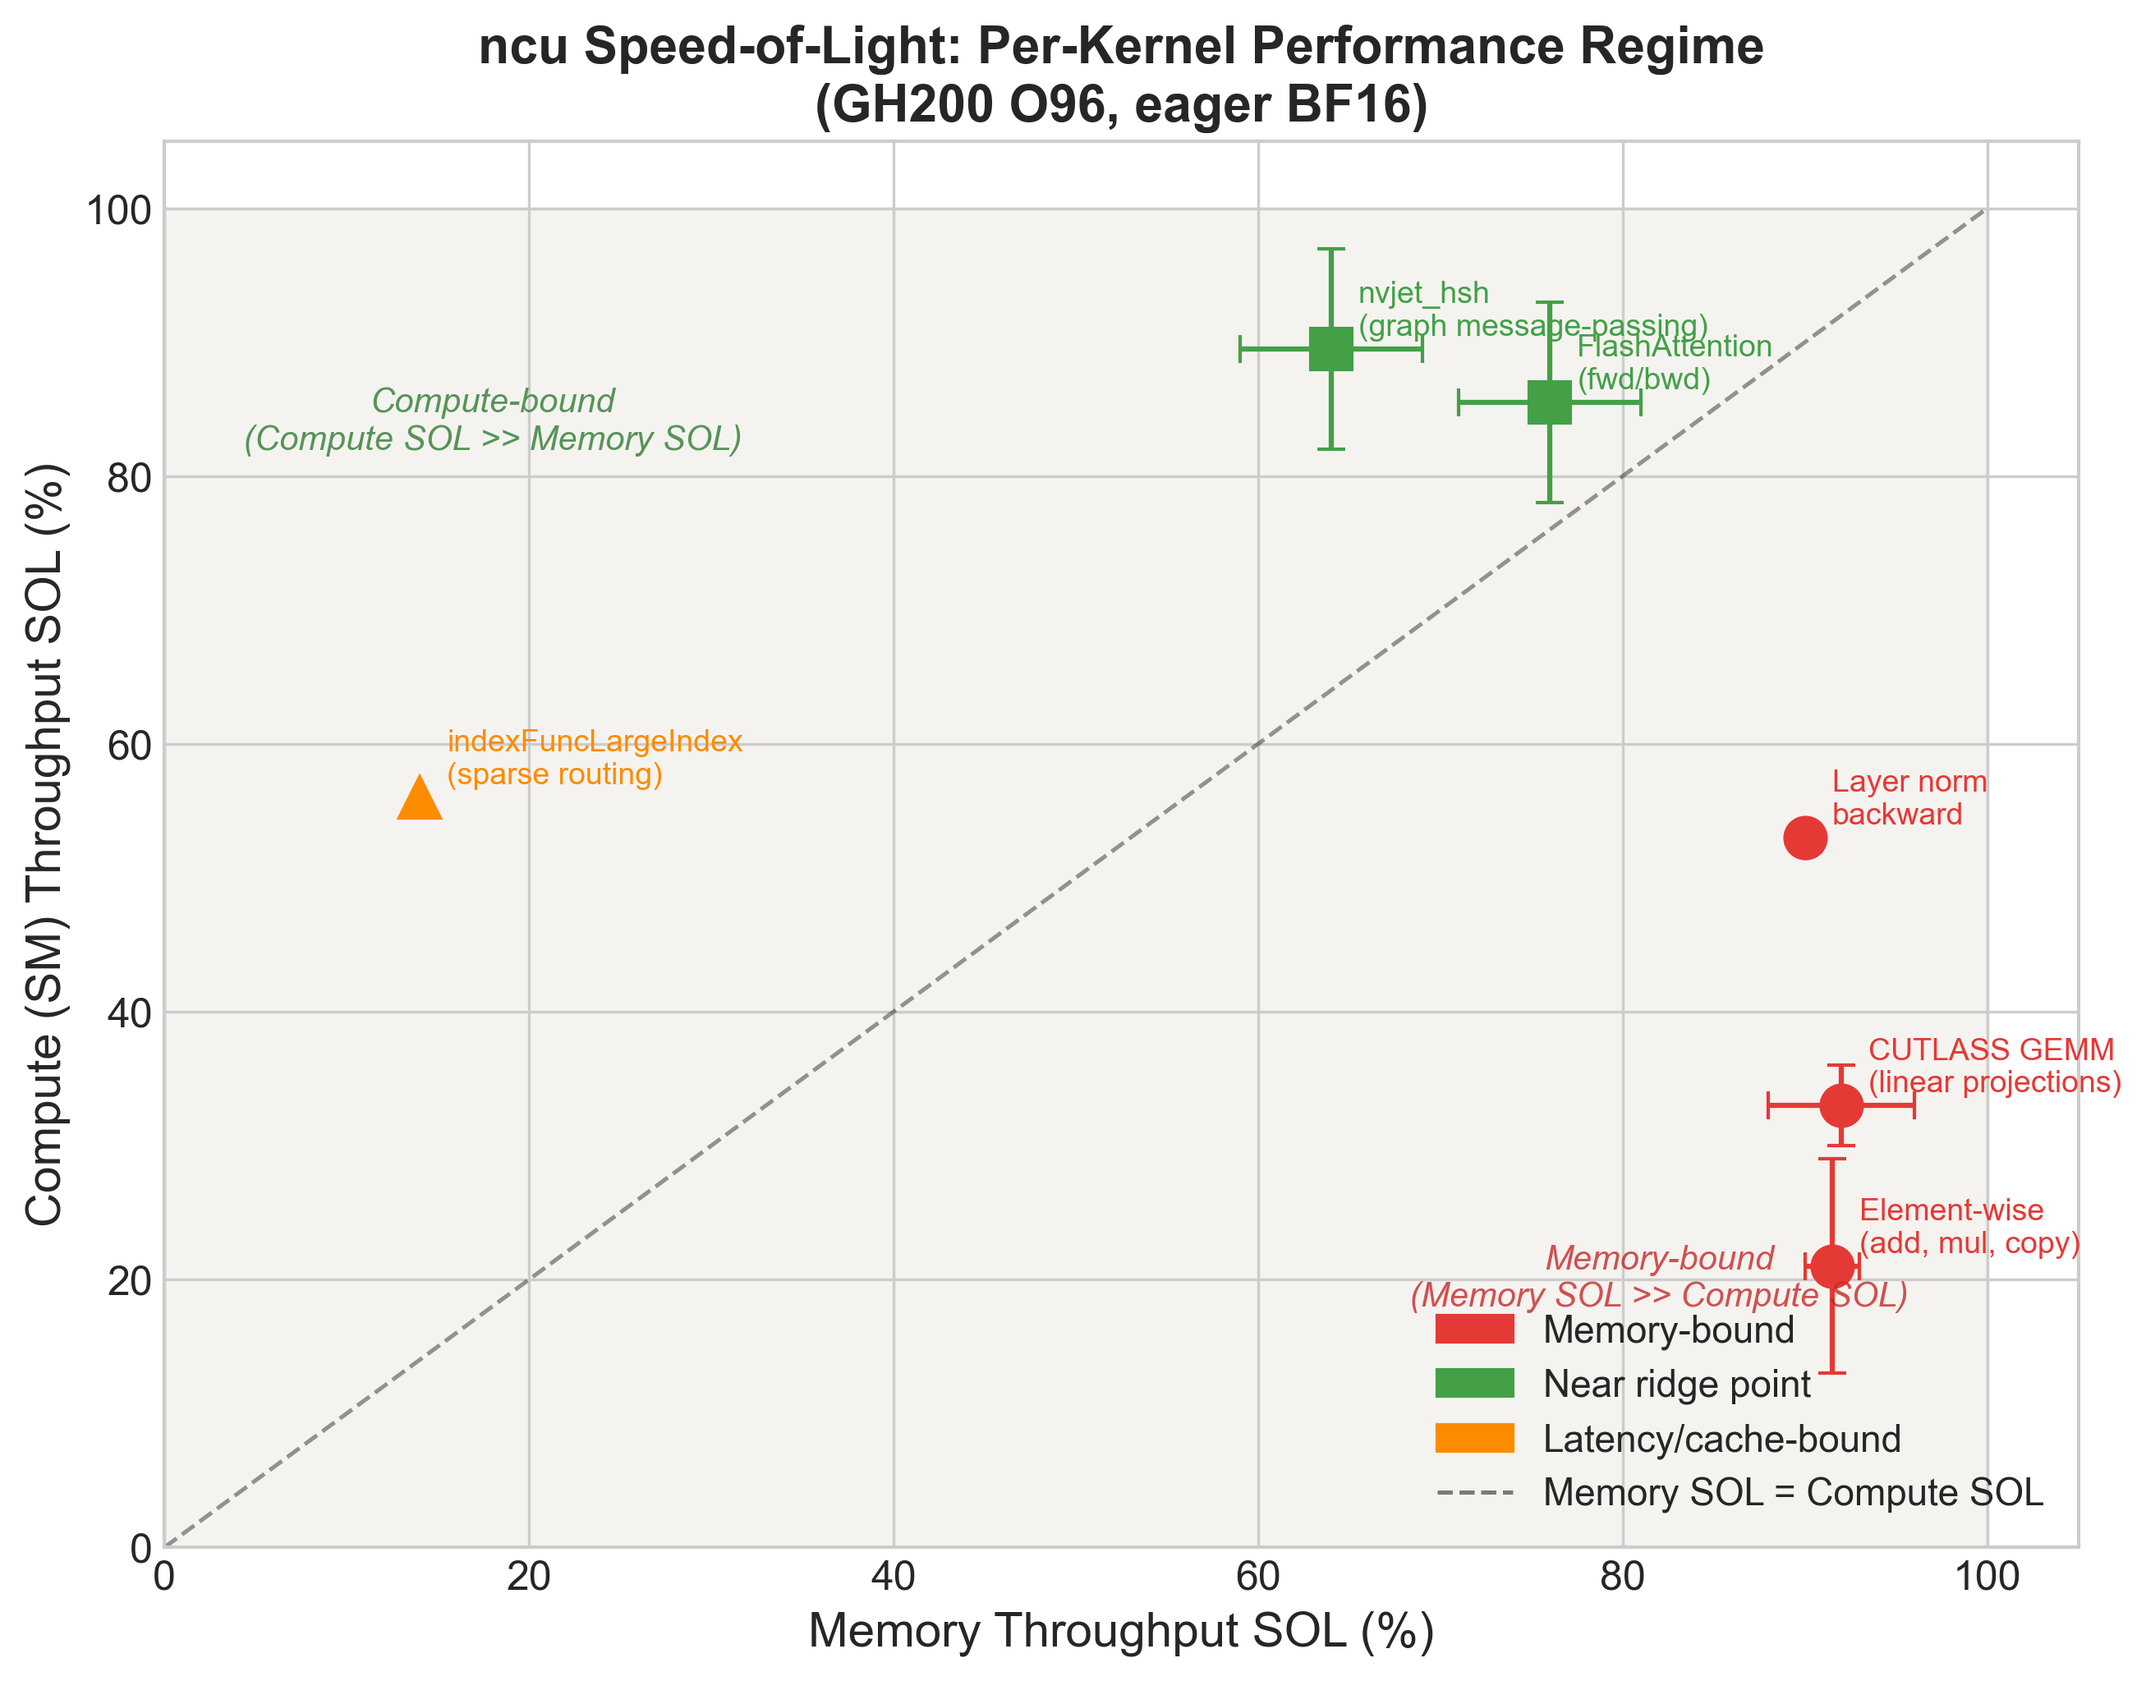
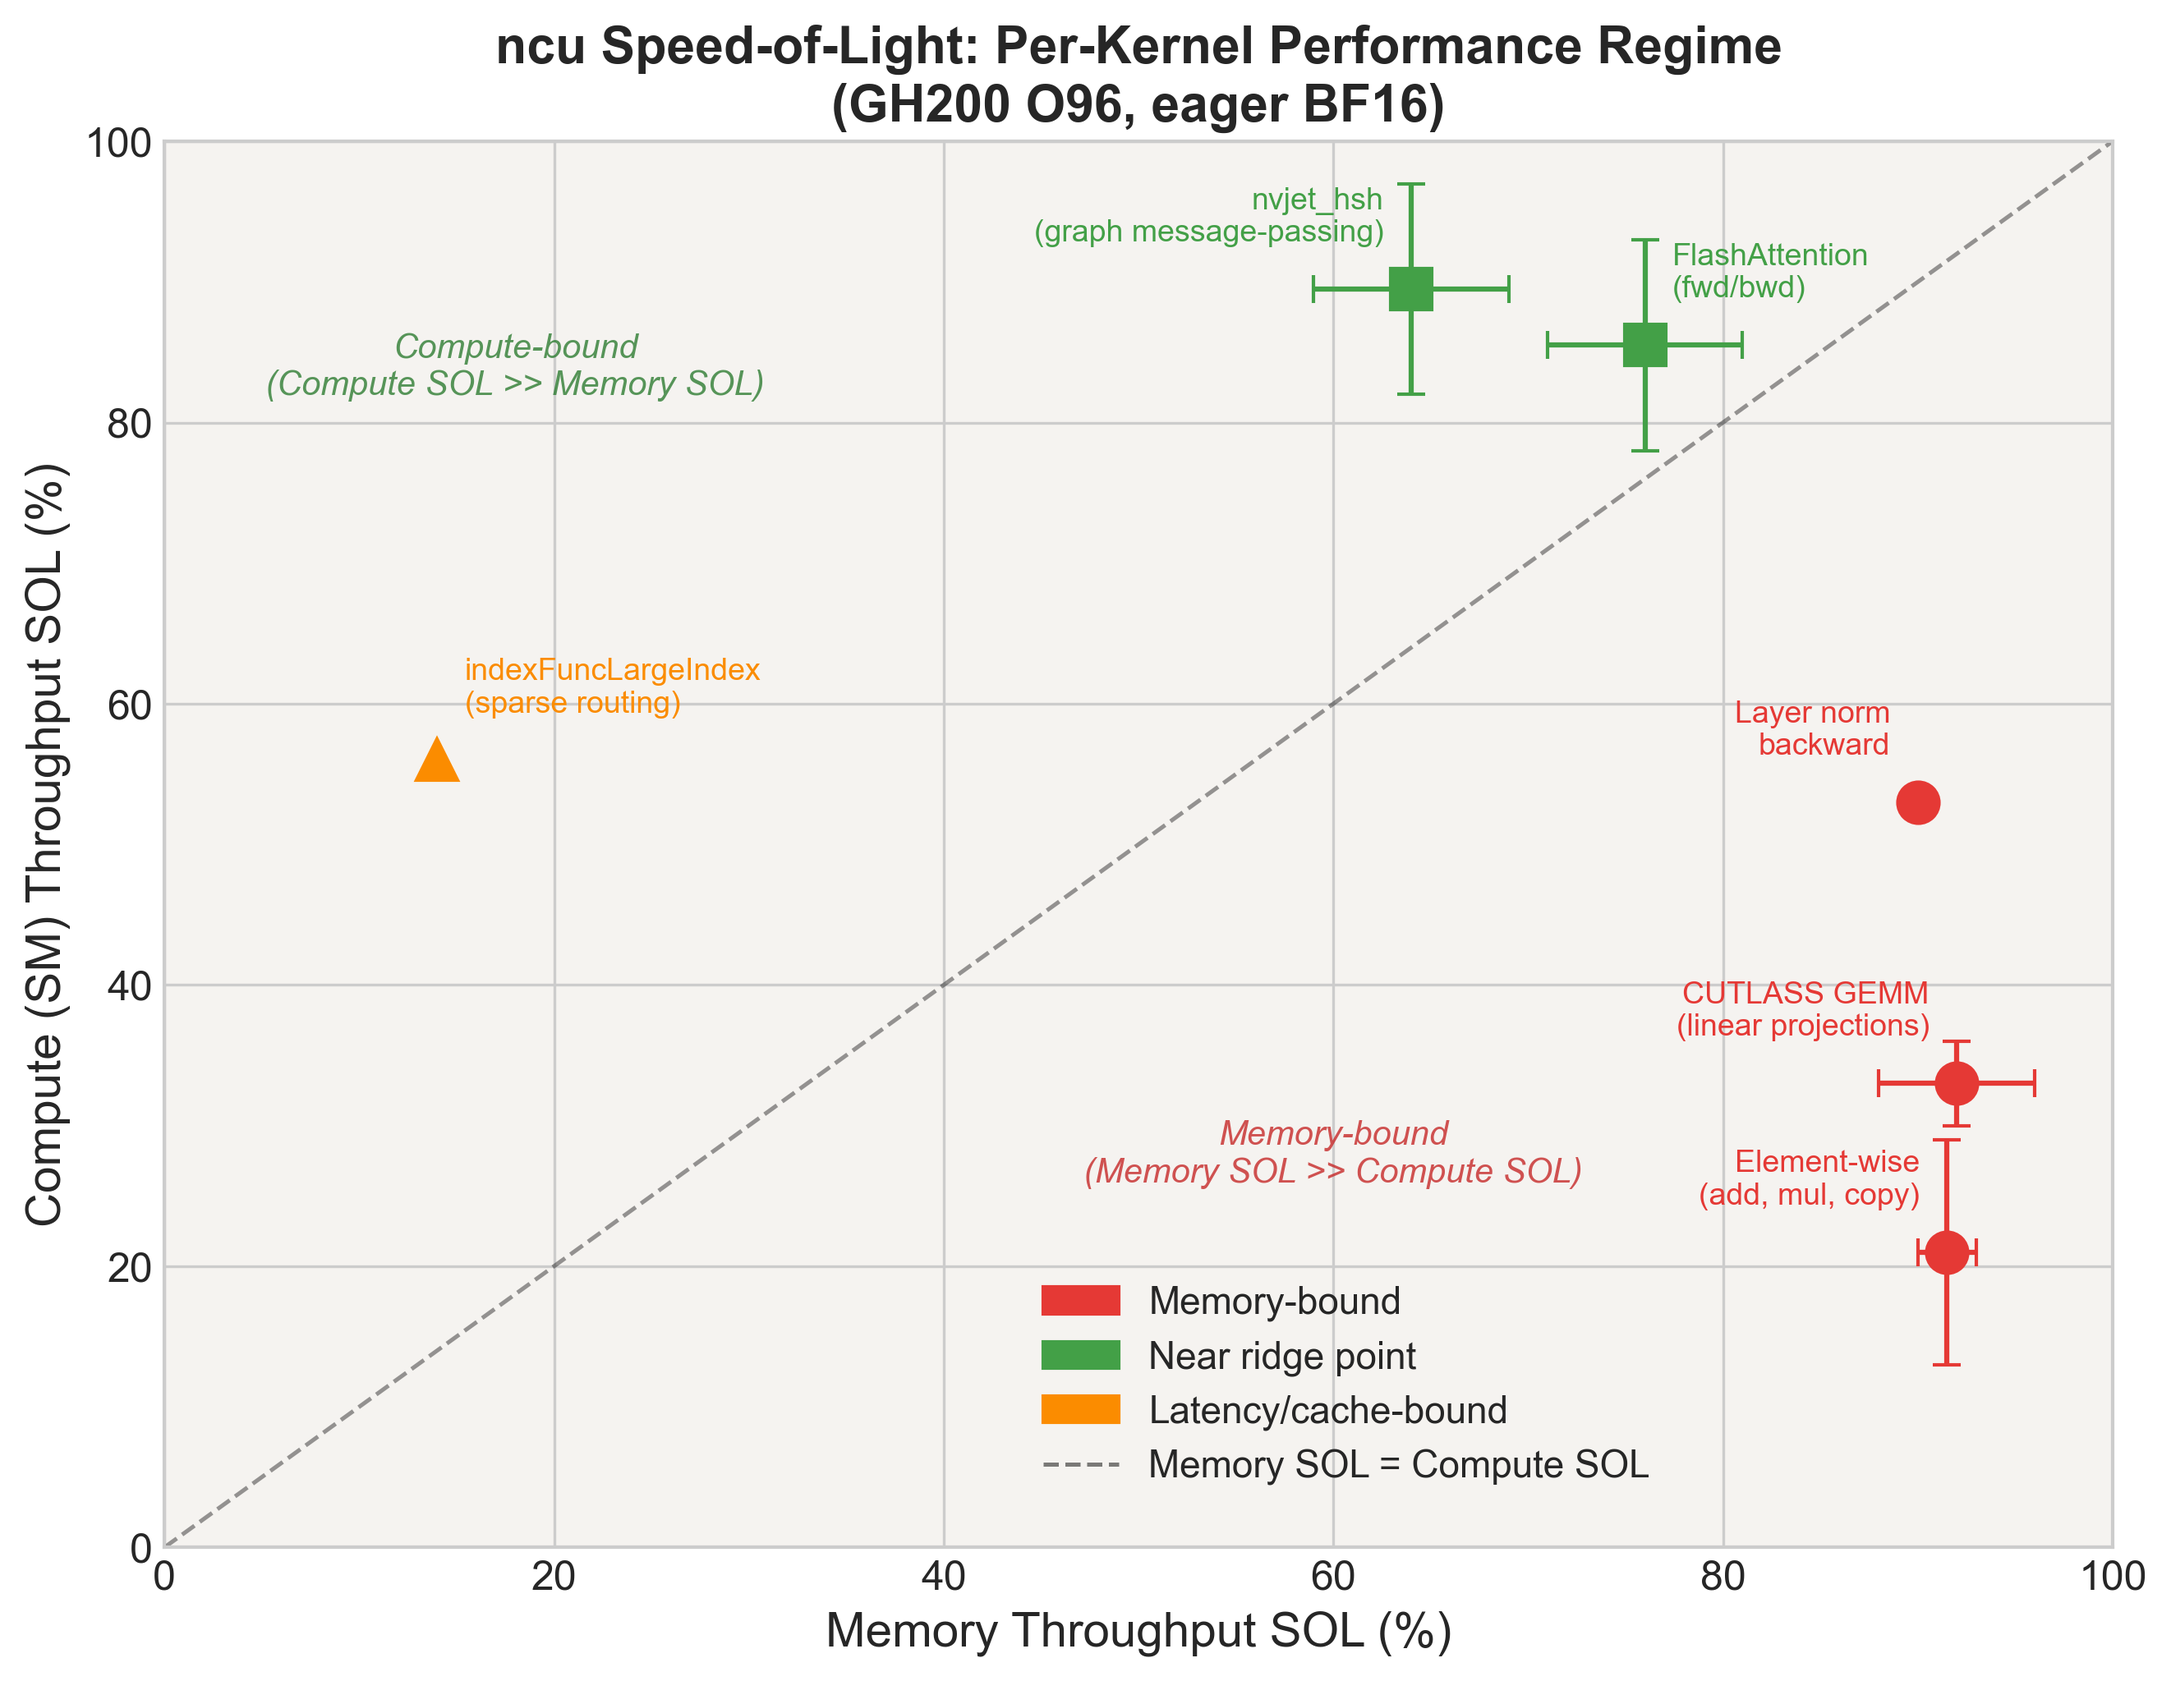
1 gpu section

diff --git a/report/scripts/3.2_roofline.py b/report/scripts/3.2_roofline.py
@@ -26,7 +26,6 @@ kernels = [
     (91.5, 21.0,  1.5,  8.0, 'Element-wise\n(add, mul, copy)',          'memory'),
     (90.0, 53.0,  0.0,  0.0, 'Layer norm\nbackward',                    'memory'),
     (70.0, 87.5,  5.0,  7.5, 'nvjet_hsh\n(graph message-passing)',      'ridge'),
-    (70.0, 87.5,  5.0,  7.5, 'FlashAttention\n(fwd/bwd)',               'ridge'),
     (14.0, 56.0,  0.0,  0.0, 'indexFuncLargeIndex\n(sparse routing)',   'latency'),
 ]
 
@@ -54,7 +53,7 @@ diag = np.linspace(0, 100, 200)
 ax.plot(diag, diag, 'k--', linewidth=1.2, alpha=0.4, label='Memory SOL = Compute SOL')
 
 # Region labels
-ax.text(82, 18, 'Memory-bound\n(Memory SOL >> Compute SOL)',
+ax.text(60, 26, 'Memory-bound\n(Memory SOL >> Compute SOL)',
         fontsize=10, color='#C62828', ha='center', style='italic', alpha=0.8)
 ax.text(18, 82, 'Compute-bound\n(Compute SOL >> Memory SOL)',
         fontsize=10, color='#2E7D32', ha='center', style='italic', alpha=0.8)
@@ -62,7 +61,6 @@ ax.text(18, 82, 'Compute-bound\n(Compute SOL >> Memory SOL)',
 # Offset identical nvjet/FlashAttention points slightly for readability
 offsets = {
     'nvjet_hsh\n(graph message-passing)':  (-6, 2),
-    'FlashAttention\n(fwd/bwd)':           ( 6, -2),
 }
 
 plotted_regimes = set()
@@ -76,15 +74,19 @@ for mem, comp, mem_err, comp_err, label, regime in kernels:
                 markersize=12, capsize=4, linewidth=1.5,
                 label=regime if regime not in plotted_regimes else None)
     plotted_regimes.add(regime)
+    left_labels = {'nvjet_hsh\n(graph message-passing)'}
+    xt = -8 if (regime == 'memory' or label in left_labels) else 8
     ax.annotate(label, (x, y),
-                textcoords='offset points', xytext=(8, 4),
+                textcoords='offset points',
+                xytext=(xt, 14),
+                ha='right' if (regime == 'memory' or label in left_labels) else 'left',
                 fontsize=9, color=colors[regime])
 
 ax.set_xlabel('Memory Throughput SOL (%)')
 ax.set_ylabel('Compute (SM) Throughput SOL (%)')
 ax.set_title('ncu Speed-of-Light: Per-Kernel Performance Regime\n(GH200 O96, eager BF16)', fontweight='bold')
-ax.set_xlim(0, 105)
-ax.set_ylim(0, 105)
+ax.set_xlim(0, 100)
+ax.set_ylim(0, 100)
 
 legend_elements = [
     mpatches.Patch(color=colors['memory'],  label='Memory-bound'),
@@ -93,7 +95,7 @@ legend_elements = [
     plt.Line2D([0], [0], color='k', linestyle='--', linewidth=1.2, alpha=0.5,
                label='Memory SOL = Compute SOL'),
 ]
-ax.legend(handles=legend_elements, loc='lower right', framealpha=0.9)
+ax.legend(handles=legend_elements, loc='lower right', framealpha=0.9, bbox_to_anchor=(0.78, 0.02))
 
 fig.tight_layout()
 out = '../plots/3.2_roofline.png'

diff --git a/report/scripts/3.1_kernel_breakdown.py b/report/scripts/3.1_kernel_breakdown.py
@@ -23,7 +23,7 @@ kernels = [
     'FlashAttention\n(fwd + bwd)',
     'Graph message-passing\n(nvjet_hsh)',
 ]
-shares = [29, 1, 13, 21, 36]
+shares = [31, 1, 13, 19, 36]
 colors = ['#90A4AE', '#B0BEC5', '#FF8F00', '#42A5F5', '#7B1FA2']
 
 fig, ax = plt.subplots(figsize=(10, 5))
